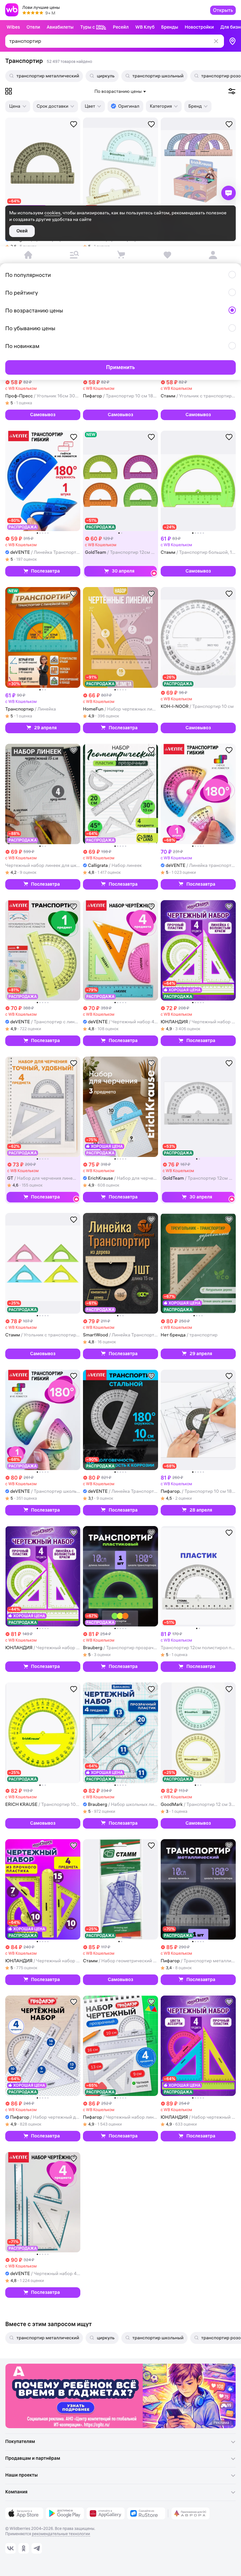
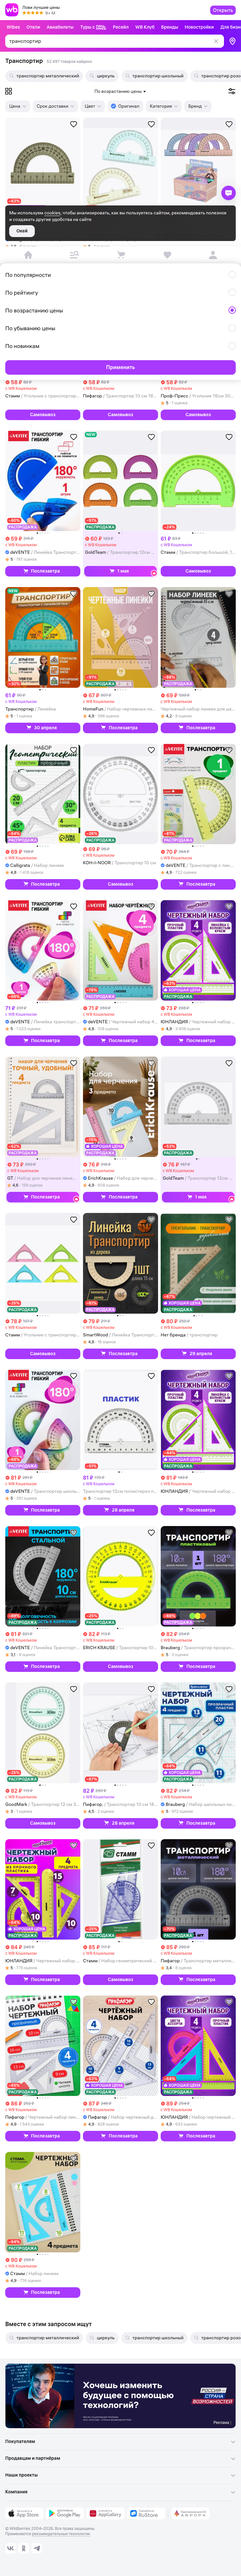
Добавлен форматированный вывод и внесены небольшие правки

diff --git a/task1/task.js b/task1/task.js
@@ -6,7 +6,7 @@ const n = 2;
 const exampleDir = path.resolve('example');
 
 async function getJsDirs(rootPaths) {
-    const result = [];
+    const jsDirs = [];
     const stack = rootPaths.map(p => path.join(exampleDir, p));
 
     while(stack.length !== 0) {
@@ -18,7 +18,7 @@ async function getJsDirs(rootPaths) {
         if(entries[0].isFile()) {
             const jsCount = entries.filter(file => file.name.endsWith('.js')).length;
             if(jsCount > 0) {
-                result.push({
+                jsDirs.push({
                     path: curDir,
                     jsFiles: jsCount
                 });
@@ -29,7 +29,7 @@ async function getJsDirs(rootPaths) {
             for(const item of entries) stack.push(path.join(curDir, item.name));
         }
     }
-    return result;
+    return jsDirs;
 }
 
 function divideGroups(n, folders) {
@@ -41,10 +41,10 @@ function divideGroups(n, folders) {
         });
     }
 
-    const sorted = [...folders].sort((a, b) => b.jsFiles - a.jsFiles)
+    const sorted = [...folders].sort((a, b) => b.jsFiles - a.jsFiles);
 
     for (const entry of sorted) {
-        groups.sort((a, b) => a.total - b.total)
+        groups.sort((a, b) => a.total - b.total);
 
         groups[0].dirs.push(entry.path);
         groups[0].total += entry.jsFiles;
@@ -52,12 +52,33 @@ function divideGroups(n, folders) {
     return groups;
 }
 
+function printJsDirs(jsDirs) {
+    for (const dir of jsDirs) {
+        const relativePath = path.relative(exampleDir, dir.path);
+        const prettyPath = relativePath.split(path.sep).join(' \\ ');
+        console.log(`${prettyPath} (${dir.jsFiles})`);
+    }
+}
+
+function printGroups(groups, jsDirs) {
+    for (let i = 0; i < groups.length; i++) {
+        console.log(`[${i + 1}]`);
+        for (const dirPath of groups[i].dirs) {
+            const folder = jsDirs.find(item => item.path === dirPath);
+            const relativePath = path.relative(exampleDir, folder.path);
+            const prettyPath = relativePath.split(path.sep).join(' \\ ');
+            console.log(`${prettyPath} (${folder.jsFiles})`);
+        }
+    }
+}
 
 async function main() {
     const jsFolders = await getJsDirs(rootPaths);
-    console.log(jsFolders);
-
-    const groups = divideGroups(n, jsFolders)
-    console.log(groups);
+    console.log('Задание 1');
+    printJsDirs(jsFolders);
+    
+    const groups = divideGroups(n, jsFolders);
+    console.log('\n\nЗадание 2');
+    printGroups(groups, jsFolders);
 }
 main();

diff --git a/task2/tests/wb.spec.js b/task2/tests/wb.spec.js
@@ -25,8 +25,11 @@ test('Wildberries search transportir', async () => {
 
   await test.step("Открытие страницы", async () => {
     await page.goto('https://www.wildberries.ru/', {
-      waitUntil: 'domcontentloaded'
+      waitUntil: 'commit',
+      timeout: 30000
     });
+    await page.waitForURL(/wildberries\.ru/, { timeout: 15000 });
+
 
     // Если сайт грузится медленно или идет проверка браузера или открылся попап
     await Promise.any([
